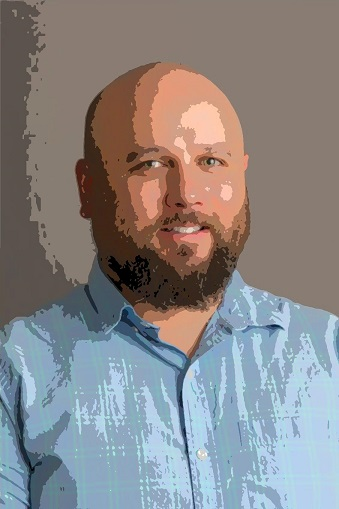
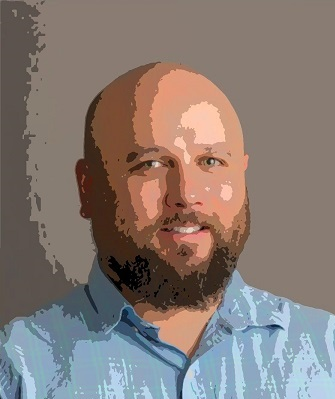
created stamp on picture

diff --git a/FSW101/Final/css/styles.css b/FSW101/Final/css/styles.css
@@ -1,3 +1,5 @@
+* {margin: 0; padding: 0;}
+
 .row {
     border: 0px solid black;
     height: 200px;
@@ -312,4 +314,47 @@
 
 .round.pic {
   border-radius: 50%;
+}
+
+.stamp {
+	width: 350px;
+	height: 417px;
+	display: inline-block;
+	padding: 7px;
+	background:#3c70b4;
+	position: relative;
+	-webkit-filter: drop-shadow(0px 0px 10px rgba(0,0,0,0.5));
+	/*The stamp cutout will be created using crisp radial gradients*/
+	background: radial-gradient(
+		transparent 0px, 
+		transparent 4px, 
+	  #3c70b4 4px,
+		#3c70b4
+	);
+  
+	/*reducing the gradient size*/
+	background-size: 20px 20px;
+	/*Offset to move the holes to the edge*/
+	background-position: -10px -10px;
+}
+.stamp:after {
+	content: '';
+	position: absolute;
+	/*We can shrink the pseudo element here to hide the shadow edges*/
+	left: 5px; top: 5px; right: 5px; bottom: 5px;
+	/*Shadow - doesn't look good because of the stamp cutout. We can still move this into another pseudo element behind the .stamp main element*/
+	
+  /*box-shadow: 0 0 20px 1px rgba(0, 0, 0, 0.5);*/
+	/*pushing it back*/
+	z-index: -1;
+}
+/*Some text*/
+.stamp:before {
+	position: absolute;
+	bottom: 0; left: 0;
+	font: bold 24px arial;
+	color:#3c70b4;
+	opacity: 0.75;
+	line-height: 100%;
+	padding: 20px;
 }

diff --git a/FSW101/Final/index_alt.html b/FSW101/Final/index_alt.html
@@ -45,7 +45,7 @@
             </div>
             <div class="col-sm-6">
                 <!--Right Column-->
-                <div>
+                <div class="stamp">
                     <img align="right" src="images/bg/2.jpg" alt="Avatar" id="corners">    
                 </div>
                 <br/>
@@ -56,6 +56,15 @@
             </div>
         </div>
     </div>
+
+    <br/>
+    <br/>
+    <br/>
+    <br/>
+    <br/>
+    <br/>
+    <br/>
+    <br/>
 
 
     <!-- Navbar -->
